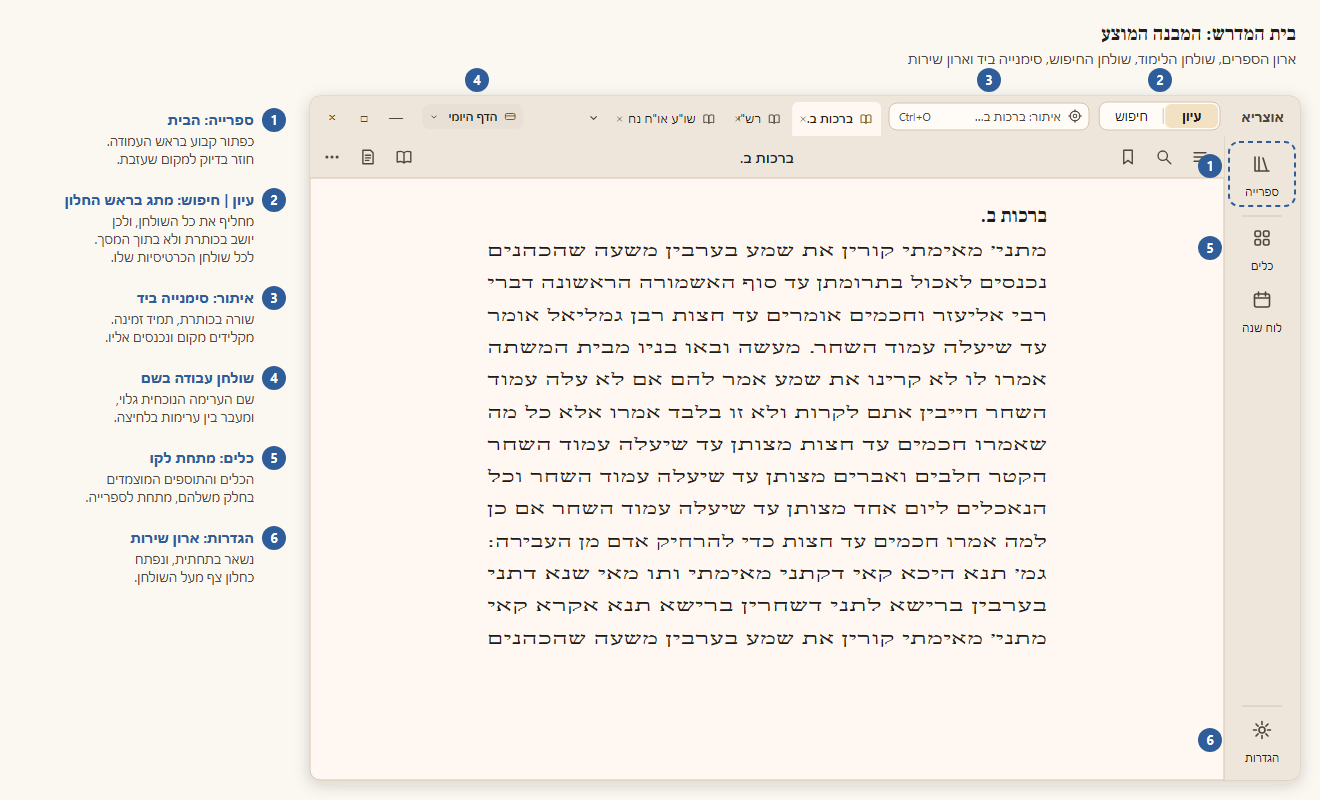
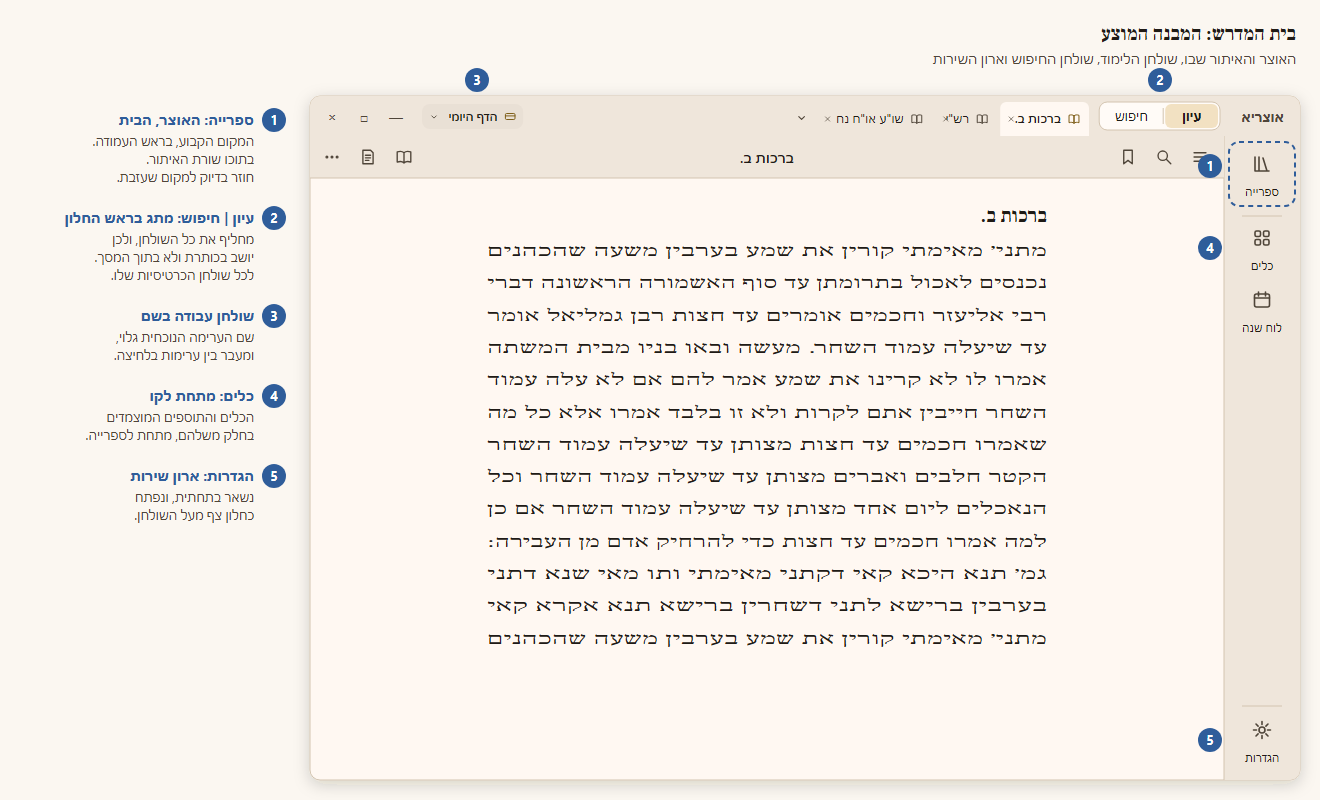
מסמך היסוד: הספרייה היא האוצר, והאיתור יושב בתוכה
הספרייה היא הבית עצמו, ושורת האיתור למראה מקום עוברת מהכותרת לראש מסך
האוצר ולחלונית "ארון הספרים". נוסף כלל 7: פעולה יושבת בתוך העולם שלה.
הדמיה חדשה של מסך האוצר, ושאר ההדמיות בלי שורת איתור בכותרת. תכנית המימוש
והשאלות להכרעה עודכנו בהתאם.

diff --git a/docs/design-system/APP_STRUCTURE.md b/docs/design-system/APP_STRUCTURE.md
@@ -24,10 +24,10 @@
 
 | בתוכנה | בבית המדרש | בתור מה ניגשים | מה מקבלים | הצורה בממשק |
 |---|---|---|---|---|
-| **ספרייה** | הבית וארון הספרים, מסודר וממוין | מקום קבוע | ספר לפתוח | כפתור קבוע בראש העמודה. מסך מלא שזוכר את מצבו, ובשעת הצורך חלונית צד |
+| **ספרייה** | האוצר עצמו: הבית וארון הספרים, מסודר וממוין | המקום הקבוע | ספר לפתוח, או מקום ידוע | כפתור קבוע בראש העמודה. מסך מלא שזוכר את מצבו, ובו המדפים, חיפוש השמות ושורת האיתור. בשעת הצורך נפתח כחלונית צד |
 | **עיון** | השולחן או הסטנדר, ועליו הספרים הפתוחים | שולחן | ספרים פתוחים, כל אחד במקומו | מלוא המסך, כרטיסיות, שולחנות עבודה |
 | **חיפוש** | סטנדר נוסף ליד השולחן, ועליו ספר מפתחות | שולחן שני | רשימות תוצאות שנשמרות | שולחן משלו, ומתג בראש החלון שעובר בין שני השולחנות |
-| **איתור** | פתיחת סימנייה בספר | פעולה קצרה | מעבר למקום ידוע | שורה בכותרת שממנה נגללות אפשרויות |
+| **איתור** | פתיחת סימנייה בספר מן הארון | פעולה קצרה, בתוך עולם הספרייה | מעבר למקום ידוע | שורה בראש האוצר, ושורה כזו גם בחלונית שלו. ממנה נגללות האפשרויות |
 | **כלים** | כלי עזר שמניחים על השולחן | פעולה שפותחת כלי | כלי בכרטיסייה בשולחן | בעמודה, מתחת לקו, בחלק משלהם |
 | **הגדרות** | ארון שירות: השעון, לוח החשמל, המונה | שירות | שינוי התוכנה עצמה | חלון צף מעל השולחן, מכפתור בתחתית העמודה |
 
@@ -41,7 +41,7 @@
 |---|---|---|
 | מקום | כפתור בעמודה הימנית, מסך מלא שזוכר את מצבו | ספרייה |
 | שולחן | מתג בראש החלון, וכרטיסיות שייכות לשולחן | עיון, חיפוש |
-| פעולה | שורה או חלון צף, נסגרים אחרי שהפעולה נעשתה | איתור |
+| פעולה | שורה בתוך המקום שהפעולה שייכת לו, או חלון צף. נסגרים אחרי שהפעולה נעשתה | איתור, בתוך הספרייה |
 | שירות | חלון צף מכפתור בתחתית העמודה | הגדרות |
 
 **כלל 2. מימין המקור, משמאל מה שיוצא ממנו.**
@@ -51,7 +51,10 @@
 המעבר בין עיון לחיפוש מחליף את כל שטח העבודה, את הכרטיסיות ואת התוכן. לכן הוא בשורת הכותרת, מעל הכול, ולא בתוך המסך ולא בעמודה.
 
 **כלל 4. העמודה מחזיקה רק את מה שמחוץ לשולחן.**
-למעלה הספרייה. מתחת לקו הכלים והתוספים המוצמדים. בתחתית ההגדרות. איתור אינו מקום, ולכן אינו בעמודה. גם עיון וחיפוש אינם בה, כי הם השולחן עצמו, והמתג שלהם בראש החלון.
+למעלה הספרייה. מתחת לקו הכלים והתוספים המוצמדים. בתחתית ההגדרות. איתור אינו מקום בפני עצמו, אלא חלק מהאוצר, ולכן אינו בעמודה ואינו בשורת הכותרת. גם עיון וחיפוש אינם בעמודה, כי הם השולחן עצמו, והמתג שלהם בראש החלון.
+
+**כלל 7. פעולה יושבת בתוך העולם שלה.**
+פעולה לא מקבלת כפתור משלה בעמודה או בכותרת. היא יושבת במקום שממנו היא נובעת: האיתור בתוך האוצר, חיפוש חדש בשולחן החיפוש, וניהול שולחנות העבודה ליד שם השולחן.
 
 **כלל 5. הקריאה במרכז.**
 כל שינוי במבנה נבחן לפי השאלה אם הוא מפריע ללימוד. אזור הקריאה נשאר שקט, כמו שקובע DESIGN_SYSTEM §1.1 סעיף 3. חלון צף לא מחליף את השולחן, אלא נפתח מעליו, והלימוד נשאר מאחוריו במקומו.
@@ -75,16 +78,27 @@
 
 ## 5. ההצעות
 
-### 5.1 ספרייה: הבית
+### 5.1 ספרייה: האוצר, הבית
+
+הספרייה היא הבית עצמו, לא רק מסך פתיחה. זה האוצר שנכנסים אליו, והמקום הקבוע של התוכנה. כל מה שנוגע למציאת ספר או מקום שייך לעולם שלו.
 
 **מוצע:**
 - כפתור הספרייה נשאר קבוע בראש העמודה, וקו מפריד אותו מהכלים שמתחתיו.
 - החזרה לספרייה מחזירה בדיוק למצב שבו הנחת אותה. זה כבר קיים היום, ונשמר.
-- **ארון הספרים כחלונית:** בתוך העיון אפשר לפתוח את הספרייה כחלונית צד ימנית ברשימה. זה כמו להרים את הראש מעל הסטנדר ולהסתכל מה עוד אפשר להוציא מהארון. ספר שנבחר נפתח בכרטיסייה חדשה בשולחן הנוכחי, והחלונית נשארת פתוחה. בתחתית החלונית יש קישור "לספרייה המלאה", שעובר למסך הספרייה באותו מקום.
+- **מסך האוצר נשאר כמו היום:** תיבות המדפים, שדה החיפוש בשמות של מדפים וספרים, הדף היומי והתצוגה המקדימה. התצוגה המקדימה בצד שמאל (כלל 2).
+- **בראש האוצר יש שורת איתור** לכתיבת מראה מקום ולמעבר מיידי. היא בולטת יותר משדה חיפוש השמות, כי היא עושה פעולה אחרת (§5.3).
+- **שדה חיפוש השמות:** התווית של היום, "איתור ספר או מחבר ב…", מתחלפת ל"חיפוש מדף או ספר ב…". כך לא תהיה התנגשות עם "איתור" של מראה מקום.
 
-**לא משתנה:** מסך הספרייה עצמו, תצוגת הרשת והרשימה, התצוגה המקדימה והקיצור Ctrl+L.
+**לא משתנה:** תיבות המדפים, תצוגת הרשת והרשימה, התצוגה המקדימה, הדף היומי והקיצור Ctrl+L.
 
-![ספרייה כחלונית](app-structure/02-library-panel.png)
+![האוצר](app-structure/02-library-home.png)
+
+**ארון הספרים כחלונית:** בתוך העיון אפשר לפתוח את האוצר כחלונית צד ימנית, ברשימה. זה כמו להרים את הראש מעל הסטנדר, ולהסתכל מה עוד אפשר להוציא מהארון.
+- בראש החלונית יש אותה שורת איתור, ומתחתיה סינון מדפים וספרים.
+- ספר שנבחר נפתח בכרטיסייה חדשה בשולחן הנוכחי, והחלונית נשארת פתוחה.
+- בתחתית החלונית יש קישור "לאוצר המלא", שעובר למסך הספרייה באותו מקום.
+
+![ספרייה כחלונית](app-structure/03-library-panel.png)
 
 ### 5.2 עיון: השולחן
 
@@ -95,17 +109,20 @@
 
 **לא משתנה:** אזור הקריאה, סרגל הקורא, החלון המפוצל ומיקום הכרטיסיות (למעלה או בצד).
 
-![שולחן העיון](app-structure/03-reading-desk.png)
+![שולחן העיון](app-structure/04-reading-desk.png)
 
-### 5.3 איתור: סימנייה ביד
+### 5.3 איתור: סימנייה ביד, בתוך האוצר
+
+האיתור הוא בקשה לגשת ישירות למראה מקום ידוע. זו פעולה פשוטה וחד־פעמית, כמו לפתוח סימנייה בספר שמוציאים מן הארון. לכן מקומו בתוך עולם הספרייה, ולא בשורת הכותרת ליד שם התוכנה (כלל 7).
 
 **מוצע:**
-- האיתור יוצא מהעמודה. במקומו יש **שורת איתור** בכותרת, מימין, אחרי המתג (כלל 2: מקור). היא זמינה בכל מסך, ו־Ctrl+O ממקד אותה, כמו היום.
+- האיתור יוצא מהעמודה. במקומו יש **שורת איתור** בראש מסך האוצר, ושורה כזו גם בראש החלונית "ארון הספרים".
+- Ctrl+O, כמו היום, מביא אליה מכל מקום. מהספרייה הוא ממקד את השורה. מהשולחן הוא פותח את ארון הספרים כחלונית, עם השורה בראשה, בלי לעזוב את הלימוד.
 - מקלידים מראה מקום, ותוך כדי כך נגללת רשימה ובה שלושה מקטעים: **מראי מקום**, **סימניות** ו**נפתחו לאחרונה**. כולם גישה ישירה למקום ידוע, ולכן כולם במקום אחד.
 - Enter פותח את התוצאה הראשונה בשולחן הנוכחי.
 - בתחתית הרשימה יש שני מעברים. "חפש בכל הספרים" עובר לשולחן החיפוש. "איתור מתקדם…" פותח את החלון של היום, עם כל המסננים שלו.
 
-![שורת האיתור](app-structure/04-find-row.png)
+![שורת האיתור](app-structure/05-find-row.png)
 
 ### 5.4 חיפוש: השולחן השני
 
@@ -126,7 +143,7 @@
 - **ספר המפתחות ליד הגמרא:** "פתח לצד הספר" מניח את רשימת התוצאות משמאל לספר, בחלון מפוצל בשולחן העיון. אפשר לעשות זאת היום בגרירה, וההצעה רק מקצרת את הדרך.
 - בתוך שולחן החיפוש, עץ הסינון לפי ספרים יושב מימין והתוצאות משמאל (כלל 2).
 
-![שולחן החיפוש](app-structure/05-search-desk.png)
+![שולחן החיפוש](app-structure/06-search-desk.png)
 
 ### 5.5 כלים ותוספים
 
@@ -148,14 +165,14 @@
   - **התוכנה:** קיצורי מקשים, מערכת.
 - **אודות ותודות** יוצאים מרשימת הלשוניות לקישור בתחתית החלון, כי תודות אינן הגדרה.
 
-![הגדרות כחלון צף](app-structure/06-settings-window.png)
+![הגדרות כחלון צף](app-structure/07-settings-window.png)
 
 ### 5.7 מסכים צרים
 
 - **בטלפון:** סרגל תחתון ובו ספרייה, עיון, חיפוש וכלים. בסרגל התחתון אין שורת כותרת שאפשר לשים בה את המתג, ולכן עיון וחיפוש חוזרים להיות יעדים בו. ההגדרות נמצאות בתפריט "עוד".
-- **שורת האיתור:** בראש המסך, כמו היום שורת הכרטיסיות בטלפון.
+- **שורת האיתור:** בראש מסך הספרייה, כמו במחשב.
 - **הגדרות:** חלון במסך מלא (DD-16).
-- **ארון הספרים:** בטלפון אין חלונית צד. הוא נפתח כגיליון שעולה מלמטה.
+- **ארון הספרים:** בטלפון אין חלונית צד. הוא נפתח כגיליון שעולה מלמטה, ושורת האיתור בראשו.
 
 ## 6. תכנית מימוש
 
@@ -167,17 +184,18 @@
 | 1 | **הגדרות כחלון צף.** `SettingsScreen` נפתח ב־`showDialogUntilTornDown` בתוך `AppDialogFrame(size: large)`. העמוד השלישי יוצא מה־`PageView` הראשי. `Screen.settings` נשאר כמצב "החלון פתוח", כמו `find` היום | `main_window_screen.dart`, `settings_screen.dart`, `navigation_bloc.dart` | בינוני: קישורים עמוקים להגדרות, יעדי הסיור המודרך (`TourTargetKeys.settingsTabs`), `SettingsScreenController.openTab` | 0 |
 | 2 | **סידור ההגדרות מבפנים**, לפי ההצעה למבנה ההגדרות. כרטיסים עוברים בין לשוניות, ו"אודות" יוצא לקישור | `lib/settings/tabs/*`, `settings_screen.dart`, אינדקס החיפוש | נמוך: העברת כרטיסים, `searchEntries` מתעדכנים | 1 |
 | 3 | **שני שולחנות.** מתג "עיון \| חיפוש" בשורת הכותרת. הכרטיסיות מסוננות לפי השולחן, וכל שולחן זוכר את הכרטיסייה הפעילה שלו. עיון וחיפוש יוצאים מהעמודה, וכפתור "+" לחיפוש חדש | `custom_title_bar.dart`, `reading_screen.dart`, `navigation_bloc.dart`, ה־bloc של הכרטיסיות, `tab_search_menu.dart` | גבוה: שמירת כרטיסיות ושולחנות עבודה, חלון מפוצל שמשלב ספר ותוצאה (שייך לעיון), קיצורי מעבר בין כרטיסיות | 0 |
-| 4 | **שורת האיתור בכותרת**, עם מקטעים למראי מקום, לסימניות ולאחרונים. `FindRefDialog` נשאר כ"איתור מתקדם". איתור יוצא מהעמודה, וכפתורי הסימניות וההיסטוריה יוצאים מהכותרת. הקיצורים נשארים | `custom_title_bar.dart`, `lib/find_ref/`, `lib/bookmarks/`, `lib/history/` | בינוני: פוקוס ומקלדת, רוחב הכותרת בחלון צר | 3 |
-| 5 | **ארון הספרים כחלונית ימנית** בעיון. תצוגת רשימה של הספרייה בתוך `AdaptiveSidePane` בצד ההתחלה | `library_browser.dart` (פירוק לפני כן), `reading_screen.dart` | בינוני: `library_browser.dart` גדול, ומופיע ב־§4.3 בין הקבצים שמחכים לפירוק | 0 |
+| 4 | **שורת האיתור בראש האוצר**, עם מקטעים למראי מקום, לסימניות ולאחרונים. `FindRefDialog` נשאר כ"איתור מתקדם". איתור יוצא מהעמודה, וכפתורי הסימניות וההיסטוריה יוצאים מהכותרת. Ctrl+O מביא לשורה. התווית של שדה השמות מתחלפת ל"חיפוש מדף או ספר" | `library_browser.dart` (פירוק לפני כן), `lib/find_ref/`, `lib/bookmarks/`, `lib/history/`, `custom_title_bar.dart` | בינוני: פוקוס ומקלדת, ושתי שורות קלט סמוכות במסך הספרייה | 0 |
+| 5 | **ארון הספרים כחלונית ימנית** בעיון, עם שורת האיתור בראשה. תצוגת רשימה של הספרייה בתוך `AdaptiveSidePane` בצד ההתחלה. Ctrl+O מהשולחן פותח אותה | `library_browser.dart`, `reading_screen.dart` | בינוני: `library_browser.dart` גדול, ומופיע ב־§4.3 בין הקבצים שמחכים לפירוק | 4 |
 | 6 | **שם שולחן העבודה בכותרת**, עם רשימה נפתחת. `WorkspaceSwitcherDialog` נשאר לניהול מלא | `custom_title_bar.dart`, `lib/workspaces/view/` | נמוך | 3 |
 | 7 | **מסכים צרים:** הסרגל התחתון, שורת האיתור והגיליון של ארון הספרים | `main_window_screen.dart`, `bottom_nav_labels.dart` | בינוני | 3, 4, 5 |
 
-**סדר מומלץ:** 0, 1, 2, ואז 3, 4, 6, ובמקביל 5, ובסוף 7. שלבים 1 ו־2 נותנים שיפור גלוי כבר בהתחלה, בסיכון נמוך.
+**סדר מומלץ:** 0, 1, 2, ואז 4 ו־5 (האוצר והאיתור שבו), ואז 3 ו־6 (השולחנות), ובסוף 7. שלבים 1 ו־2 נותנים שיפור גלוי כבר בהתחלה, בסיכון נמוך.
 
 ## 7. שאלות להכרעה
 
 1. **האם עיון וחיפוש יוצאים מהעמודה?** המלצה: כן, כי המתג בראש החלון כבר עושה את עבודתם. כפילות תבלבל. בטלפון הם נשארים בסרגל התחתון (§5.7).
 2. **שולחנות עבודה ושולחן החיפוש:** האם שולחן עבודה שומר גם את רשימות החיפוש שלו? המלצה: כן. שולחן עבודה הוא "סוגיה", והחיפושים שלה שייכים לה.
-3. **סימניות והיסטוריה:** האם הכפתורים יוצאים מהכותרת לטובת שורת האיתור? המלצה: כן. הניהול המלא נשאר בחלונות הקיימים, ופותחים אותם מתוך הרשימה של שורת האיתור.
+3. **סימניות והיסטוריה:** האם הכפתורים יוצאים מהכותרת, לטובת הרשימה של שורת האיתור באוצר? המלצה: כן. הניהול המלא נשאר בחלונות הקיימים, ופותחים אותם מתוך הרשימה.
 4. **איך פותחים את ארון הספרים כחלונית?** אפשר בלחיצה שנייה על "ספרייה" כשכבר נמצאים בעיון, או בכפתור בסרגל הקורא. המלצה: שתי הדרכים.
-5. **מיקום הכרטיסיות "בצד":** בעמודת הכרטיסיות הצדדית, המתג בין השולחנות נשאר בכותרת. ראש עמודת הכרטיסיות מראה את שם השולחן ואת מספר הכרטיסיות שבו.
+5. **Ctrl+O מתוך השולחן:** האם הוא פותח את ארון הספרים כחלונית ליד הלימוד, או עובר למסך האוצר? המלצה: חלונית, כדי שהלימוד יישאר מול העיניים.
+6. **מיקום הכרטיסיות "בצד":** בעמודת הכרטיסיות הצדדית, המתג בין השולחנות נשאר בכותרת. ראש עמודת הכרטיסיות מראה את שם השולחן ואת מספר הכרטיסיות שבו.
